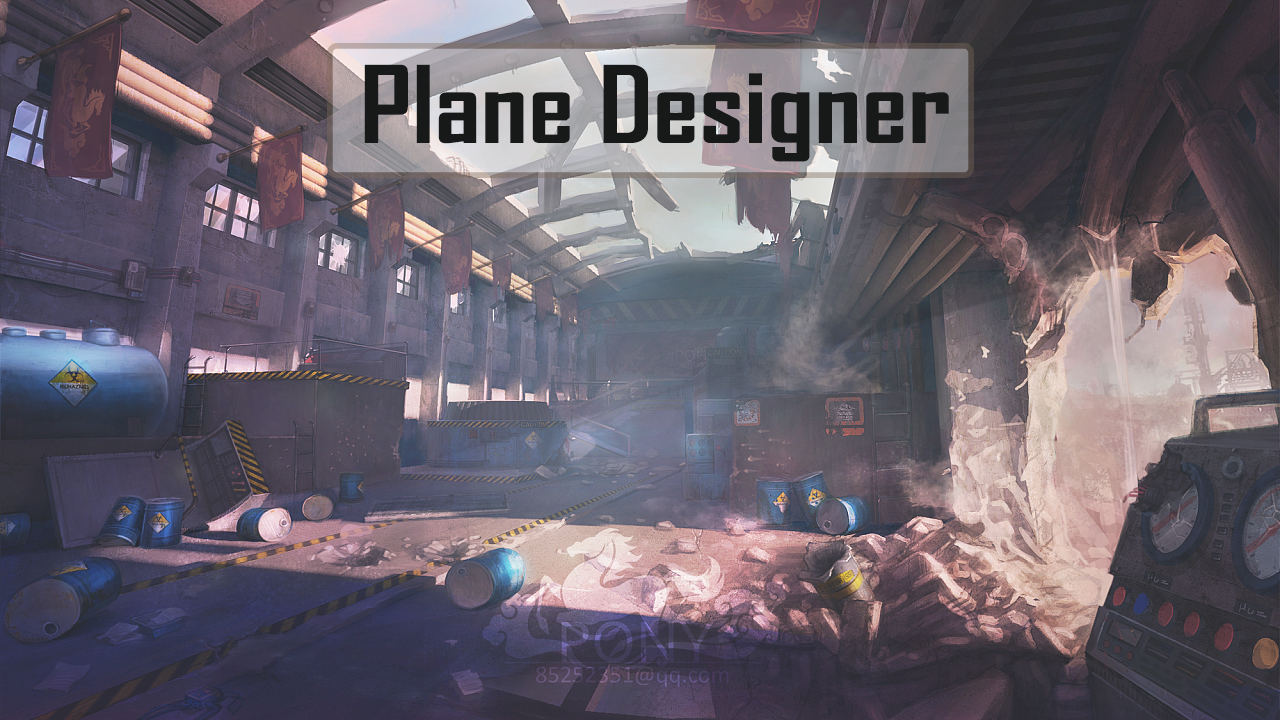
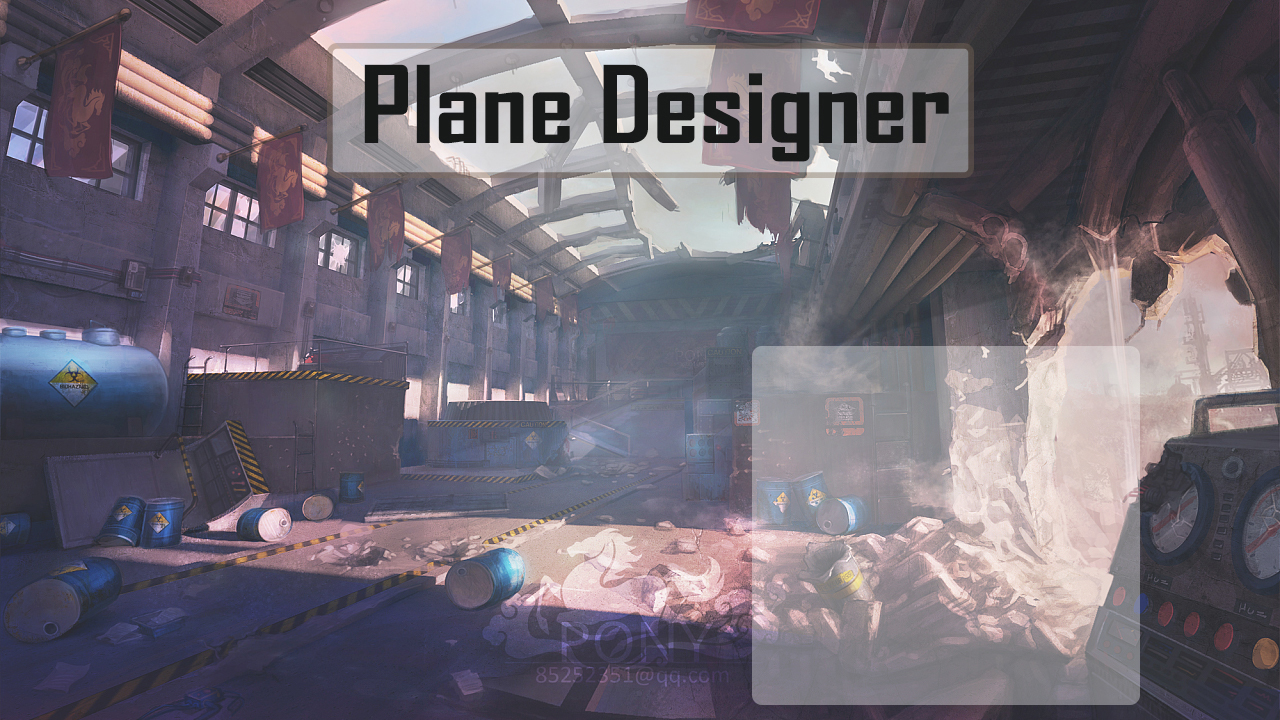
修改result界面

Changed region(s): [[0.5625, 0.4583, 0.9062, 0.9778]]

diff --git a/src/PlaneShooter/GUI/ResultPanel.java b/src/PlaneShooter/GUI/ResultPanel.java
@@ -1,7 +1,9 @@
 package PlaneShooter.GUI;
 
 import PlaneShooter.Combat.CombatStat;
+import PlaneShooter.Helper.KeyHelper;
 import PlaneShooter.Helper.ProfileHelper;
+import PlaneShooter.Helper.ResourceHelper;
 
 import javax.swing.*;
 import java.awt.*;
@@ -22,8 +24,22 @@ public class ResultPanel extends JPanel{
     public ResultPanel(MainFrame mf) {
         super();
         this.mf=mf;
+        this.setLayout(null);
+        JLabel lbl_Blank01=new JLabel("   ");
+        add(lbl_Blank01);
+
+        JPanel p = new JPanel(){
+            @Override
+            protected void paintComponent(Graphics g) {
+                ImageIcon icon = new ImageIcon("res/result.jpg");
+                Image img = icon.getImage();
+                g.drawImage(img, 0, 0, 1000, 600, icon.getImageObserver());
+            }
+        };
         labelHeader=new JLabel("Another Panel");
-        labelHeader.setFont(new Font(null,0,36));
+        labelHeader.setLocation(400,50);
+        labelHeader.setSize(300, 100);
+        labelHeader.setFont(new Font(null,0,42));
         setBackground(Color.WHITE);
         add(labelHeader);
         JLabel lbl_Back=new JLabel(new ImageIcon("res/back02.png"));
@@ -55,8 +71,16 @@ public class ResultPanel extends JPanel{
             }
         });
         lblStat=new JLabel();
+        lblStat.setFont(new Font(null,0,20));
+        lblStat.setForeground(Color.white);
+        lblStat.setSize(200,100);
+        lblStat.setLocation(800,40);
         add(lblStat);
+
+        lbl_Back.setLocation(400,200);
+        lbl_Back.setSize(lbl_Back.getPreferredSize());
         add(lbl_Back);
+
     }
 
     public void showCombatStat(CombatStat combatStat){
@@ -79,5 +103,11 @@ public class ResultPanel extends JPanel{
         str+="Your credit: "+ ProfileHelper.getCredits()+" cr";
         str+="</html>";
         lblStat.setText(str);
+    }
+    @Override
+    protected void paintComponent(Graphics g) {
+        super.paintComponent(g);
+        if(KeyHelper.hasBackground())g.drawImage(ResourceHelper.result,0,0,getWidth(),getHeight(),null);
+        repaint();
     }
 }

diff --git a/src/PlaneShooter/GUI/PlaneDesignerPanel.java b/src/PlaneShooter/GUI/PlaneDesignerPanel.java
@@ -228,6 +228,9 @@ public class PlaneDesignerPanel extends JPanel {
         cbGrid.setLocation(100,170);
         add(cbGrid);
 
+        JPanel pnlCheckboxContainer=new JPanel();
+        pnlCheckboxContainer.setSize(470,200);
+        pnlCheckboxContainer.setLocation(100,100);
 
         cbMirror=new JCheckBox("Mirror");
         cbMirror.setOpaque(false);
@@ -238,8 +241,8 @@ public class PlaneDesignerPanel extends JPanel {
         JPanel pnlComponentContainer=new JPanel();
         pnlComponentContainer.setAutoscrolls(true);
         JScrollPane scrollPane=new JScrollPane(pnlComponentContainer);
-        scrollPane.setSize(470,400);
-        scrollPane.setLocation(100,200);
+        scrollPane.setSize(470,200);
+        scrollPane.setLocation(100,300);
 
         //PlaneComponentLabel labelComponent=new PlaneComponentLabel(new RectangleBody(new Point(0,0),null));
         //add(labelComponent);

diff --git a/src/PlaneShooter/Helper/ResourceHelper.java b/src/PlaneShooter/Helper/ResourceHelper.java
@@ -10,4 +10,5 @@ public class ResourceHelper {
     public static final Image main=FileHelper.loadImageFromFile("res/main.jpg");
     public static final Image Factory=FileHelper.loadImageFromFile("res/factory.jpg");
     public static final Image star=FileHelper.loadImageFromFile("res/star.jpg");
+    public static final Image result=FileHelper.loadImageFromFile("res/result.jpg");
 }
